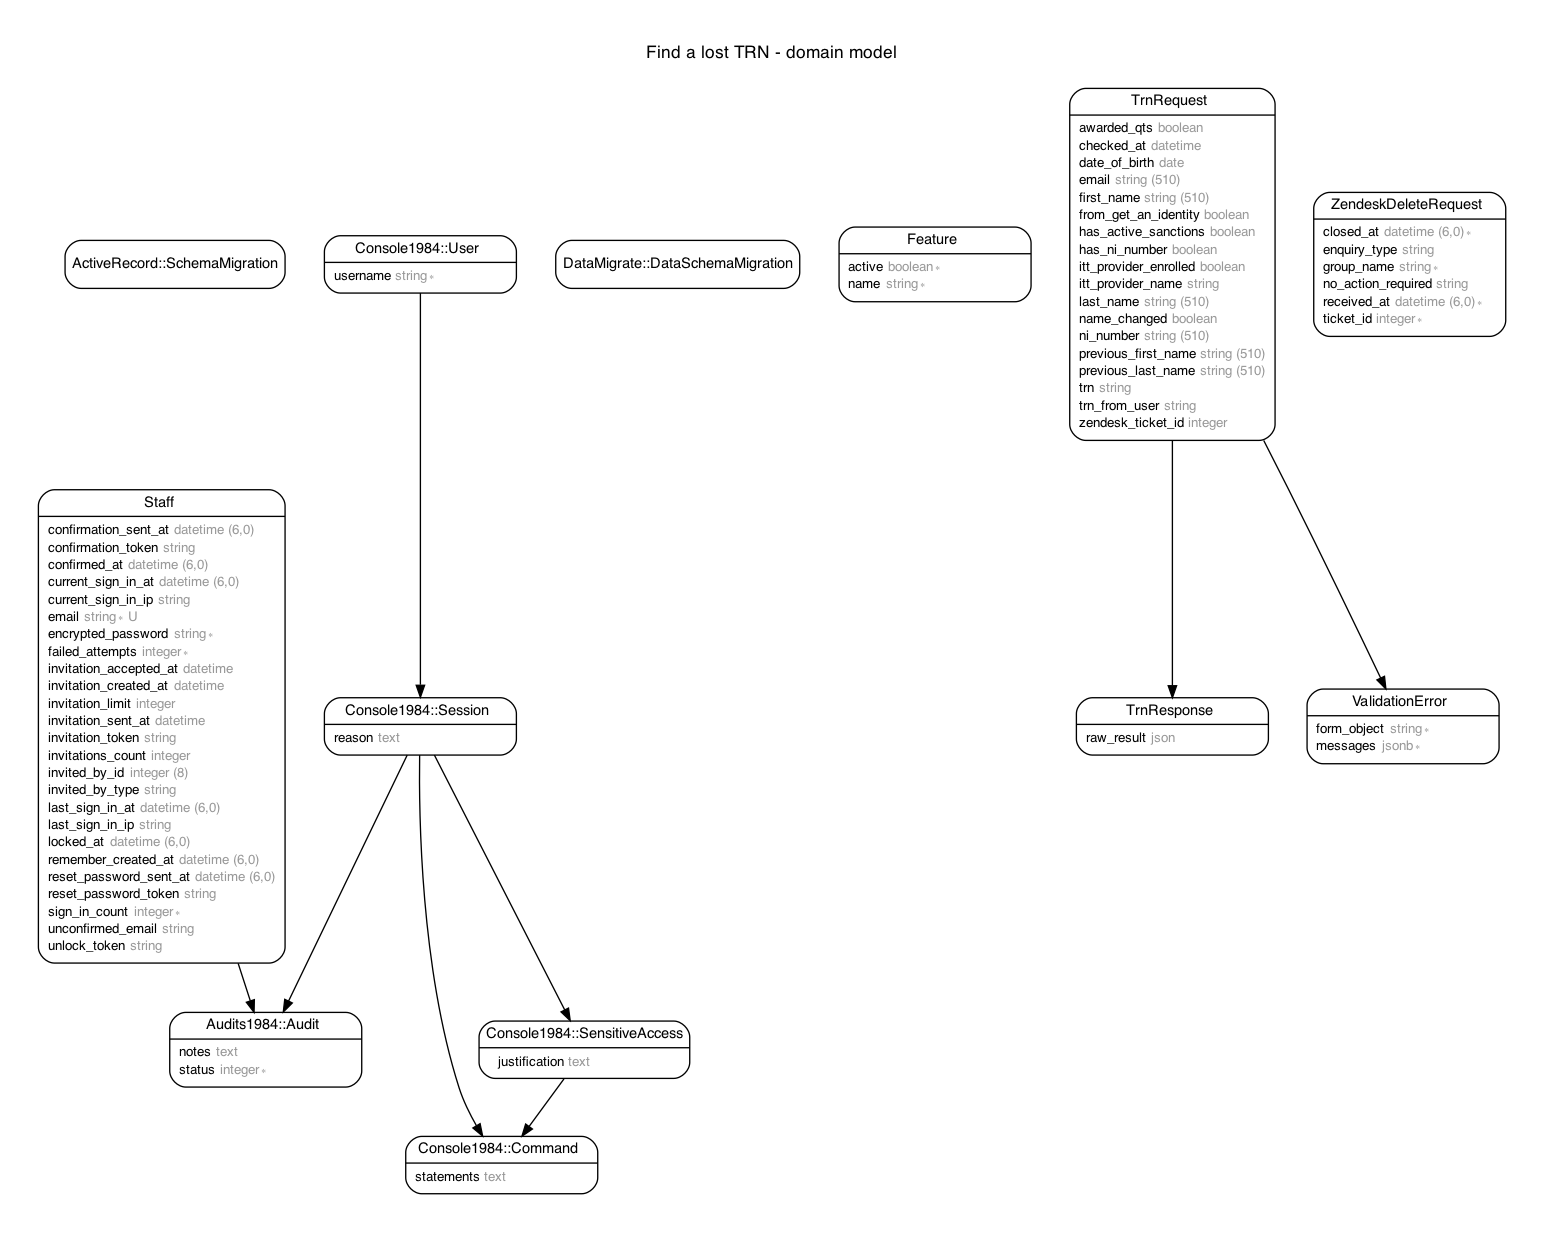
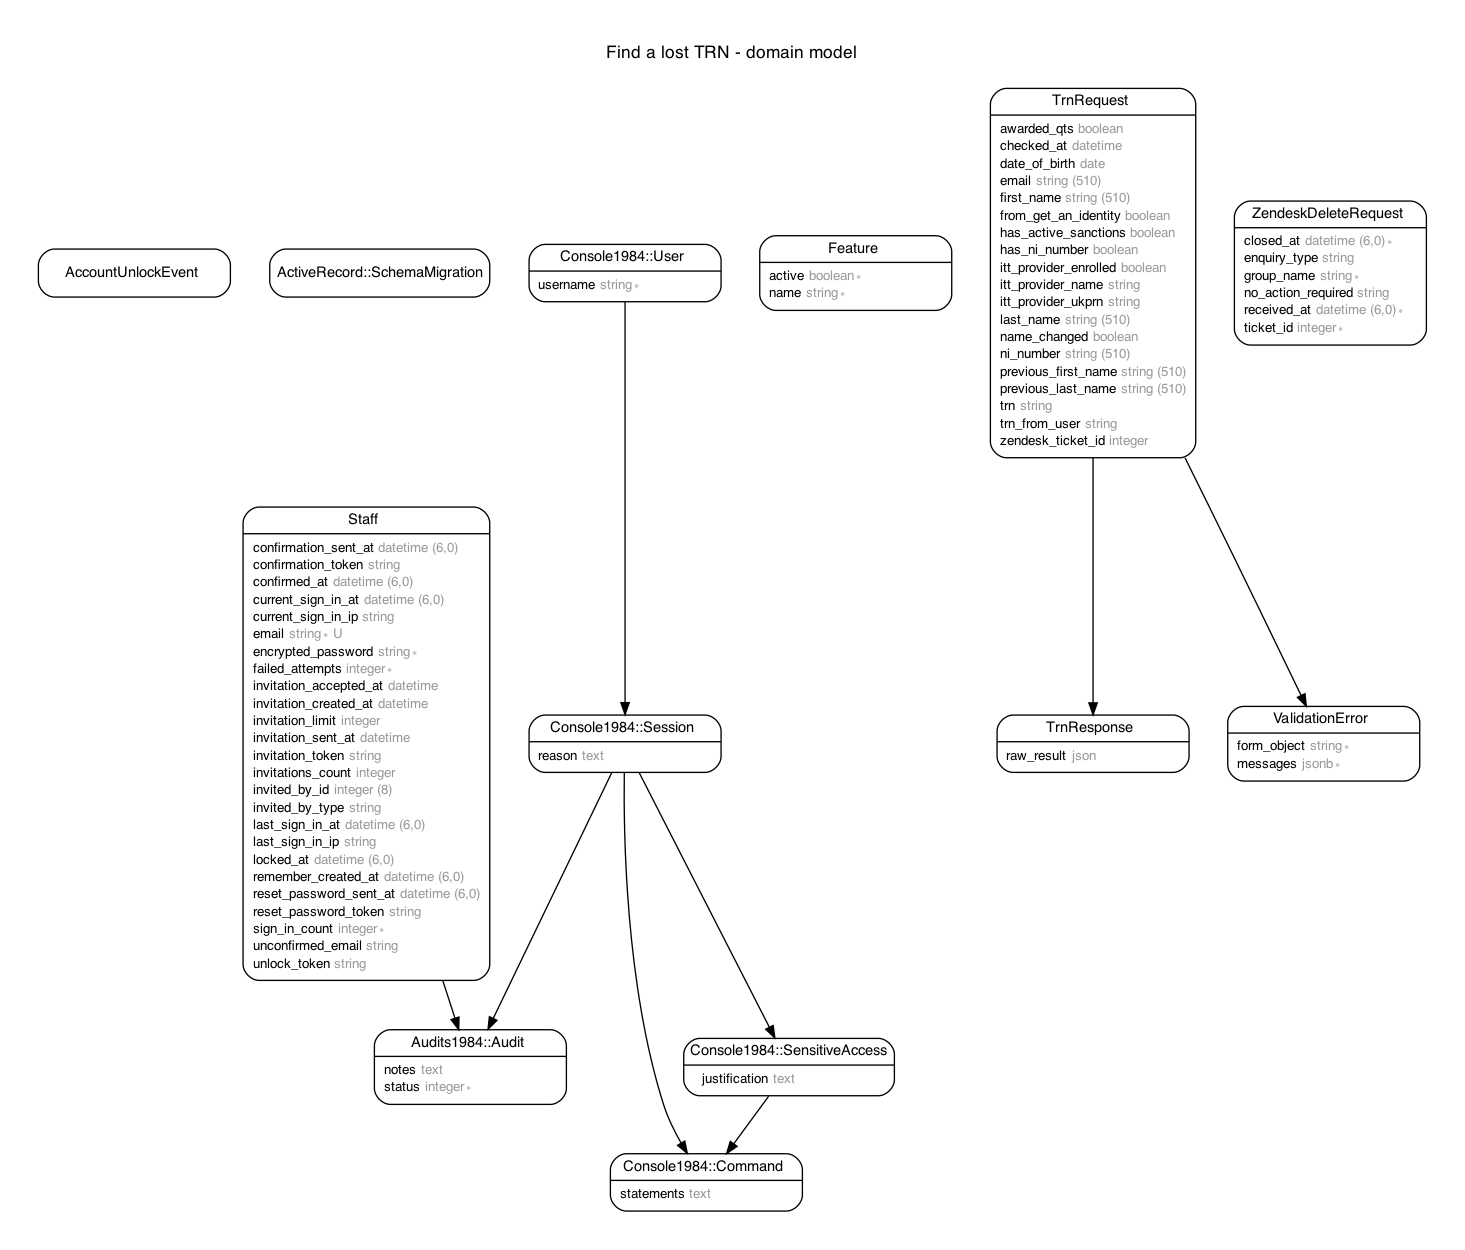
Add new AccountUnlockEvent to track unlocks

diff --git a/db/schema.rb b/db/schema.rb
@@ -10,9 +10,14 @@
 #
 # It's strongly recommended that you check this file into your version control system.
 
-ActiveRecord::Schema[7.0].define(version: 2022_09_07_124341) do
+ActiveRecord::Schema[7.0].define(version: 2022_09_16_125240) do
   # These are extensions that must be enabled in order to support this database
   enable_extension "plpgsql"
+
+  create_table "account_unlock_events", force: :cascade do |t|
+    t.datetime "created_at", null: false
+    t.datetime "updated_at", null: false
+  end
 
   create_table "audits1984_audits", force: :cascade do |t|
     t.integer "status", default: 0, null: false

diff --git a/app/models/account_unlock_event.rb b/app/models/account_unlock_event.rb
@@ -1,0 +1,10 @@
+# == Schema Information
+#
+# Table name: account_unlock_events
+#
+#  id         :bigint           not null, primary key
+#  created_at :datetime         not null
+#  updated_at :datetime         not null
+#
+class AccountUnlockEvent < ApplicationRecord
+end

diff --git a/db/migrate/20220916125240_create_account_unlock_events.rb b/db/migrate/20220916125240_create_account_unlock_events.rb
@@ -1,0 +1,8 @@
+class CreateAccountUnlockEvents < ActiveRecord::Migration[7.0]
+  def change
+    create_table :account_unlock_events do |t|
+
+      t.timestamps
+    end
+  end
+end
